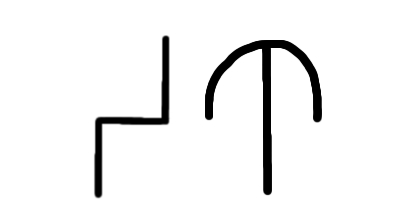
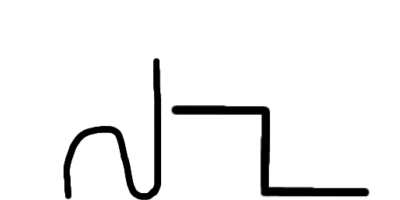
WIP

Changed region(s): [[0.15, 0.18, 0.93, 1.0]]

diff --git a/Empires in Space (EiS)/Kandra.md b/Empires in Space (EiS)/Kandra.md
@@ -1898,6 +1898,22 @@ To use a variable, you have to write it as: v"\[name]" (Q"\[name]" in ansof); th
 
 Note: variables have global scope (can be accessed anywhere in the factor); so functions can access variables declared outside and variables declared inside functions can be accessed by outside code.
 
+---
+
+- **CONST**:
+
+*Short Name*: W
+
+*Ansofate*: <img src="images/Kandra/Ansof/triple_loop.png" width="30" height="30">
+
+*Syntax*: CONST "\[name]" \[value]
+
+*Cost*: 3 stb.
+
+*Description*: CONST works like a variable except once you assign a value to it: you cannot reassign another value to it (you'd have to change the value where the variable was first assigned). A const variable is called a "constant". Using a constant is same as a variable (v"\[name]").
+
+---
+
 - **END**
 
 *Short Name*: G
@@ -1906,7 +1922,11 @@ Note: variables have global scope (can be accessed anywhere in the factor); so f
 
 *Syntax*: END (keyword)
 
+*Cost*: 2 stb.
+
 *Description*: END by itself will stop the factor but if a keyword is after it (which usually is) then it ends that keyword. It's used for keywords that contain code, like if or functions.
+
+---
 
 - **FUNC**:
 
@@ -1920,11 +1940,15 @@ FUNC "\[name]" "(argument name 1)" "(argument name 2)"...
 &nbsp;&nbsp;&nbsp;&nbsp;\[code]  
 END FUNC
 
+*Cost*: 2 stb.
+
 *Description*: FUNC lets you create a function of your own. The syntax is largely similar to VAR but as you have might have noticed, there are "(argument name 1)" "(argument name 2)". What are arguments? Arguments are data/value you give to a function for it to work/use. Arguments are separated by spaces.
 
 You use arguments like you write variables inside a function: v"\[argument name]". To use/call functions, you write it as: f"\[name]" (Y"\[name]" in ansof).
 
 If a function doesn't have any arguments: you don't need to write any values but if a function does have arguments: you have to give a values to them, written like: f"\[name]" \[value 1] \[value 2]... .
+
+---
 
 - **RETURN**:
 
@@ -1932,11 +1956,15 @@ If a function doesn't have any arguments: you don't need to write any values but
 
 *Ansofate*: <img src="images/Kandra/Ansof/Ansofate/return.png" width="50" height="50">
 
+*Cost*: 4 stb.
+
 *Description*: RETURN outputs a result from a function; it returns the data/result from a variable or operation. Functions usually have them; written at the end.
+
+---
 
 - **IF**:
 
-*Short Name*: MT
+*Short Name*: HZ
 
 *Ansofate*: <img src="images/Kandra/Ansof/Ansofate/if.png" width="50" height="50">
 
@@ -1946,6 +1974,32 @@ IF \[condition]
 &nbsp;&nbsp;&nbsp;&nbsp;\[code]  
 END IF
 
+*Cost*: 3 stb.
+
 *Description*: IF runs code inside it if the condition given is true; for example: you have a variable x with the value 2, you write an if statement which says if x is 2, then: x will be 3, since x *is* 2: x will now be 3, if x is anything other than 2: the if statement will not run.
 
+Along with IF is the keyword ELSE.
 
+- **ELSE**:
+
+*Short Name*: OP
+
+*Ansofate*: <img src="images/Kandra/Ansof/Ansofate/else.png" width="30" height="30">
+
+*Syntax*:
+
+IF \[condition]  
+&nbsp;&nbsp;&nbsp;&nbsp;\[code]  
+ELSE
+&nbsp;&nbsp;&nbsp;&nbsp;\[code]  
+END IF
+
+*Cost*: 4 stb.
+
+*Description*: if the condition in the IF statement is false: it will run the code in the else statement. You can combine IF and ELSE together to make ELSE IF.
+
+- **ELSE IF**:
+
+*Short Name*: OP HZ
+
+*Ansofate*:<img src="images/Kandra/Ansof/circle.png" width="30" height="30"><img src="images/Kandra/Ansof/up_bracket.png" width="30" height="30">&nbsp;&nbsp;<img src="images/Kandra/Ansof/round_h.png" width="30" height="30"><img src="images/Kandra/Ansof/straight_z.png" width="30" height="30">
